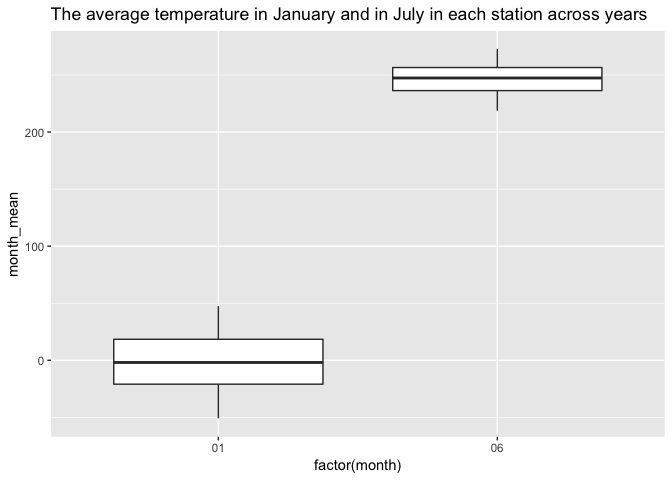
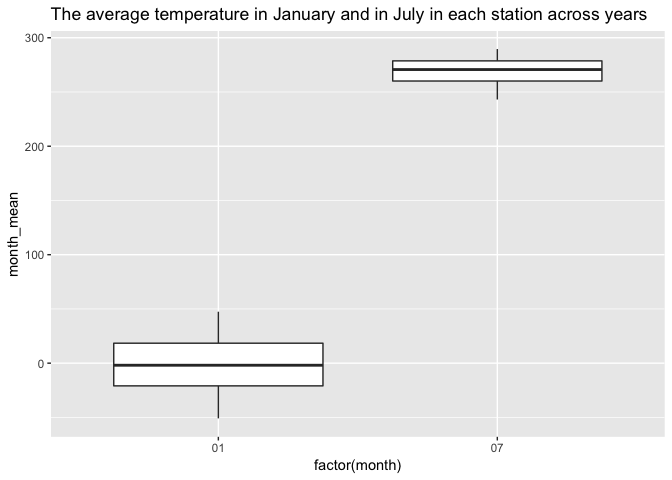
Q1 spaghetti updated

diff --git a/p8105_hw3_dz2399.md b/p8105_hw3_dz2399.md
@@ -53,10 +53,10 @@ df_brfss %>%
 df_brfss %>% 
   group_by(locationabbr,year) %>% 
   summarise(n_obs = length(data_value)) %>% 
-  filter(year==2002|year==2010) %>% 
   ggplot(aes(x=year, y=n_obs, color = locationabbr))+
   geom_line()+
-  ggtitle('the number of observations in each state from 2002 to 2010')
+  ggtitle('the number of observations in each state from 2002 to 2010')+
+  theme(legend.position = "bottom")
 ```
 
 ![](p8105_hw3_dz2399_files/figure-markdown_github/unnamed-chunk-3-1.png)
@@ -169,6 +169,7 @@ instacart %>%
 | baking ingredients             | Light Brown Sugar                                |                                                                                                                                                                                                                              499|
 | dog food care                  | Snack Sticks Chicken & Rice Recipe Dog Treats    |                                                                                                                                                                                                                               30|
 | packaged vegetables fruits     | Organic Baby Spinach                             |                                                                                                                                                                                                                             9784|
+| \\                             |                                                  |                                                                                                                                                                                                                                 |
 | \* The most popular items in b | aking ingredients is light brown sugar, purchase |  d 499 times. The most popular items in dog food care is Snack Sticks chicken and Rice recipe Dog Treats, purchased 30 times. The most popular item in packaged vagetables fruits is Organic Baby Spinich, purchased 9784 times.|
 
 #### Make a table showing the mean hour of the day at which Pink Lady Apples and Coffee Ice Cream are ordered on each day of the week; format this table for human readers (i.e. produce a 2 x 7 table)
@@ -227,7 +228,7 @@ df_nynoaa %>%
 
 ``` r
 df_nynoaa %>% 
-  filter(month=='01'|month=='06') %>%
+  filter(month=='01'|month=='07') %>%
   group_by(month,year) %>% 
   summarise(month_mean=mean(tmax)) %>%
   ggplot(aes(x=factor(month),y=month_mean))+
@@ -243,18 +244,15 @@ df_nynoaa %>%
 plot1 <- ggplot(data=df_nynoaa, aes(x=tmax,y=tmin))+
   geom_hex()+
   ggtitle('tmax vs tmin for the full dataset')+
-  theme(legend.position = "right")
+  theme(legend.position = "bottom")
 
-# plot2 <- df_nynoaa %>%
-#   filter(snow>0) %>%
-#   ggplot(aes(x=year, y=snow))+
-#   geom_density()
-# 
-# plot3 <-  df_nynoaa %>%
-#   filter(snow<100) %>%
-#   ggplot(aes(x=year, y=snow))+
-#   geom_point()+
-#   theme(legend.position = "none")
-# 
-# plot1/(plot2+plot3)
+plot2 <- df_nynoaa %>%
+  filter(snow>0,snow<100) %>%
+  ggplot(aes(x=snow, color=year))+
+  geom_density( alpha=0.3)+
+  ggtitle('The distribution of snowfall values between 0 and 100 by year')+
+  theme(legend.position = "bottom")
+plot1+plot2
 ```
+
+![](p8105_hw3_dz2399_files/figure-markdown_github/unnamed-chunk-13-1.png)
